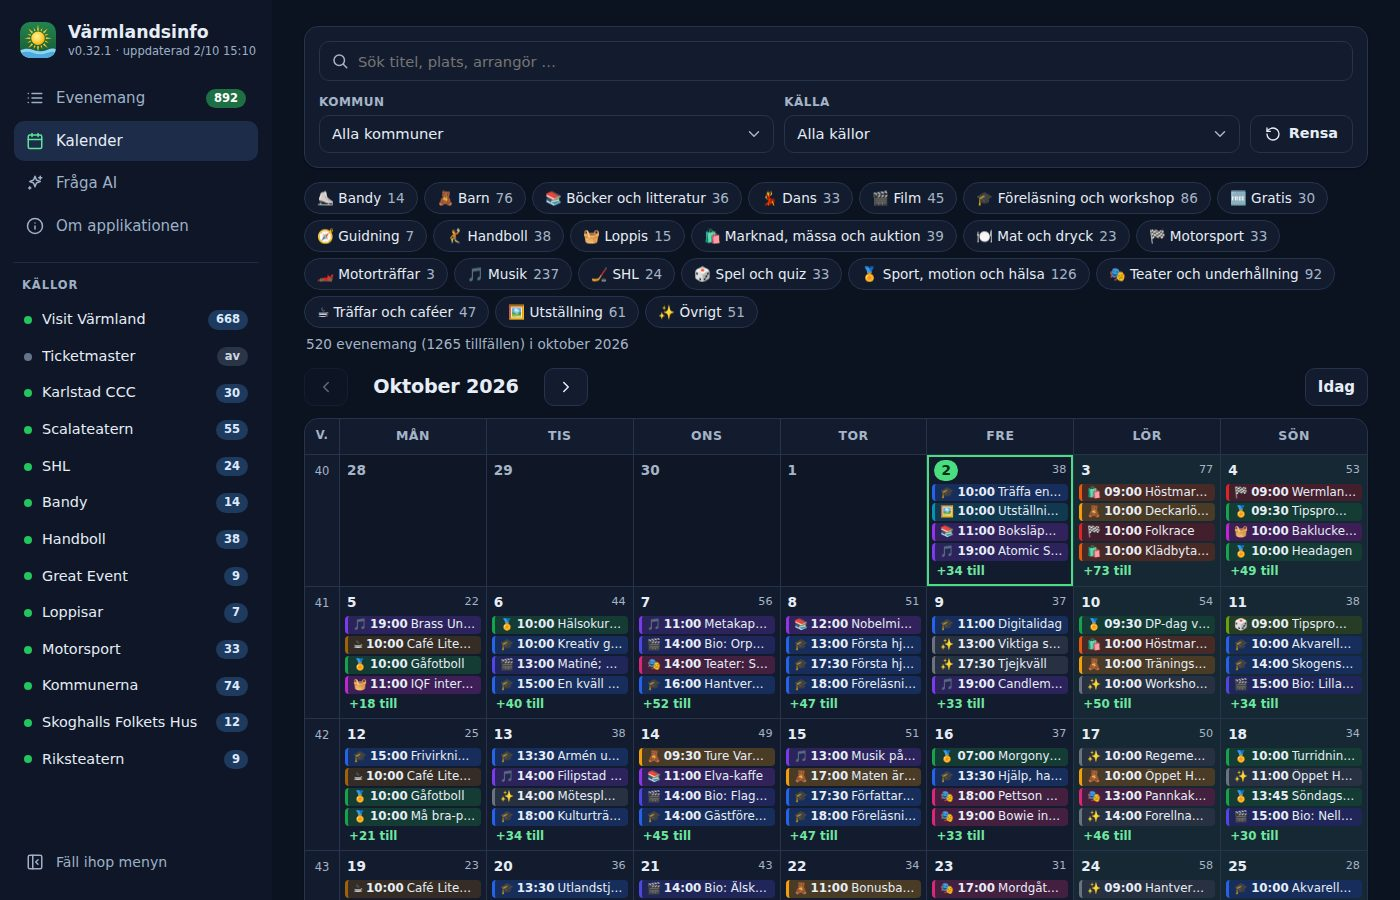
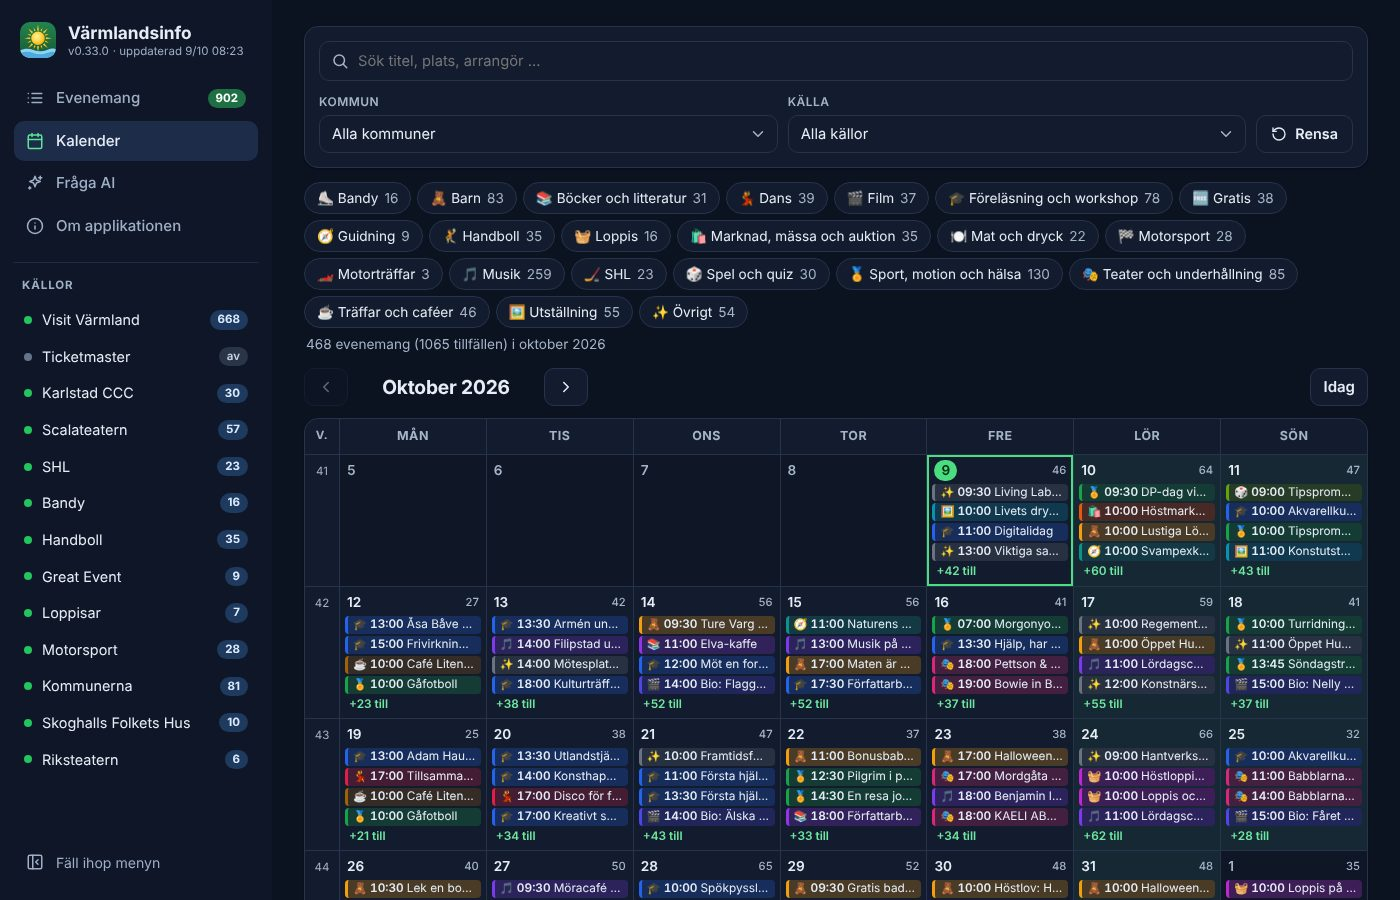
Skärmdumparna med v0.33.0 (#102)
Closes #102

Claude-Session: https://claude.ai/code/session_011w4Yd2iswLxA5DiZ7UK4Ru

diff --git a/CHANGELOG.md b/CHANGELOG.md
@@ -10,6 +10,9 @@ Formatet följer [Keep a Changelog](https://keepachangelog.com/sv/1.1.0/) och pr
 - Platshållarbild per kategori när ett evenemang saknar bild eller bilden inte går att hämta: ett tecknat värmländskt
   landskap i kategorins färg med kategorins symbol, i ljust och mörkt läge. Trasiga miniatyrer döljs (#101).
 
+### Dokumentation
+- Skärmdumparna visar v0.33.0 med platshållarbilderna (#102).
+
 ## [0.32.2] - 2026-10-02
 
 ### Dokumentation
